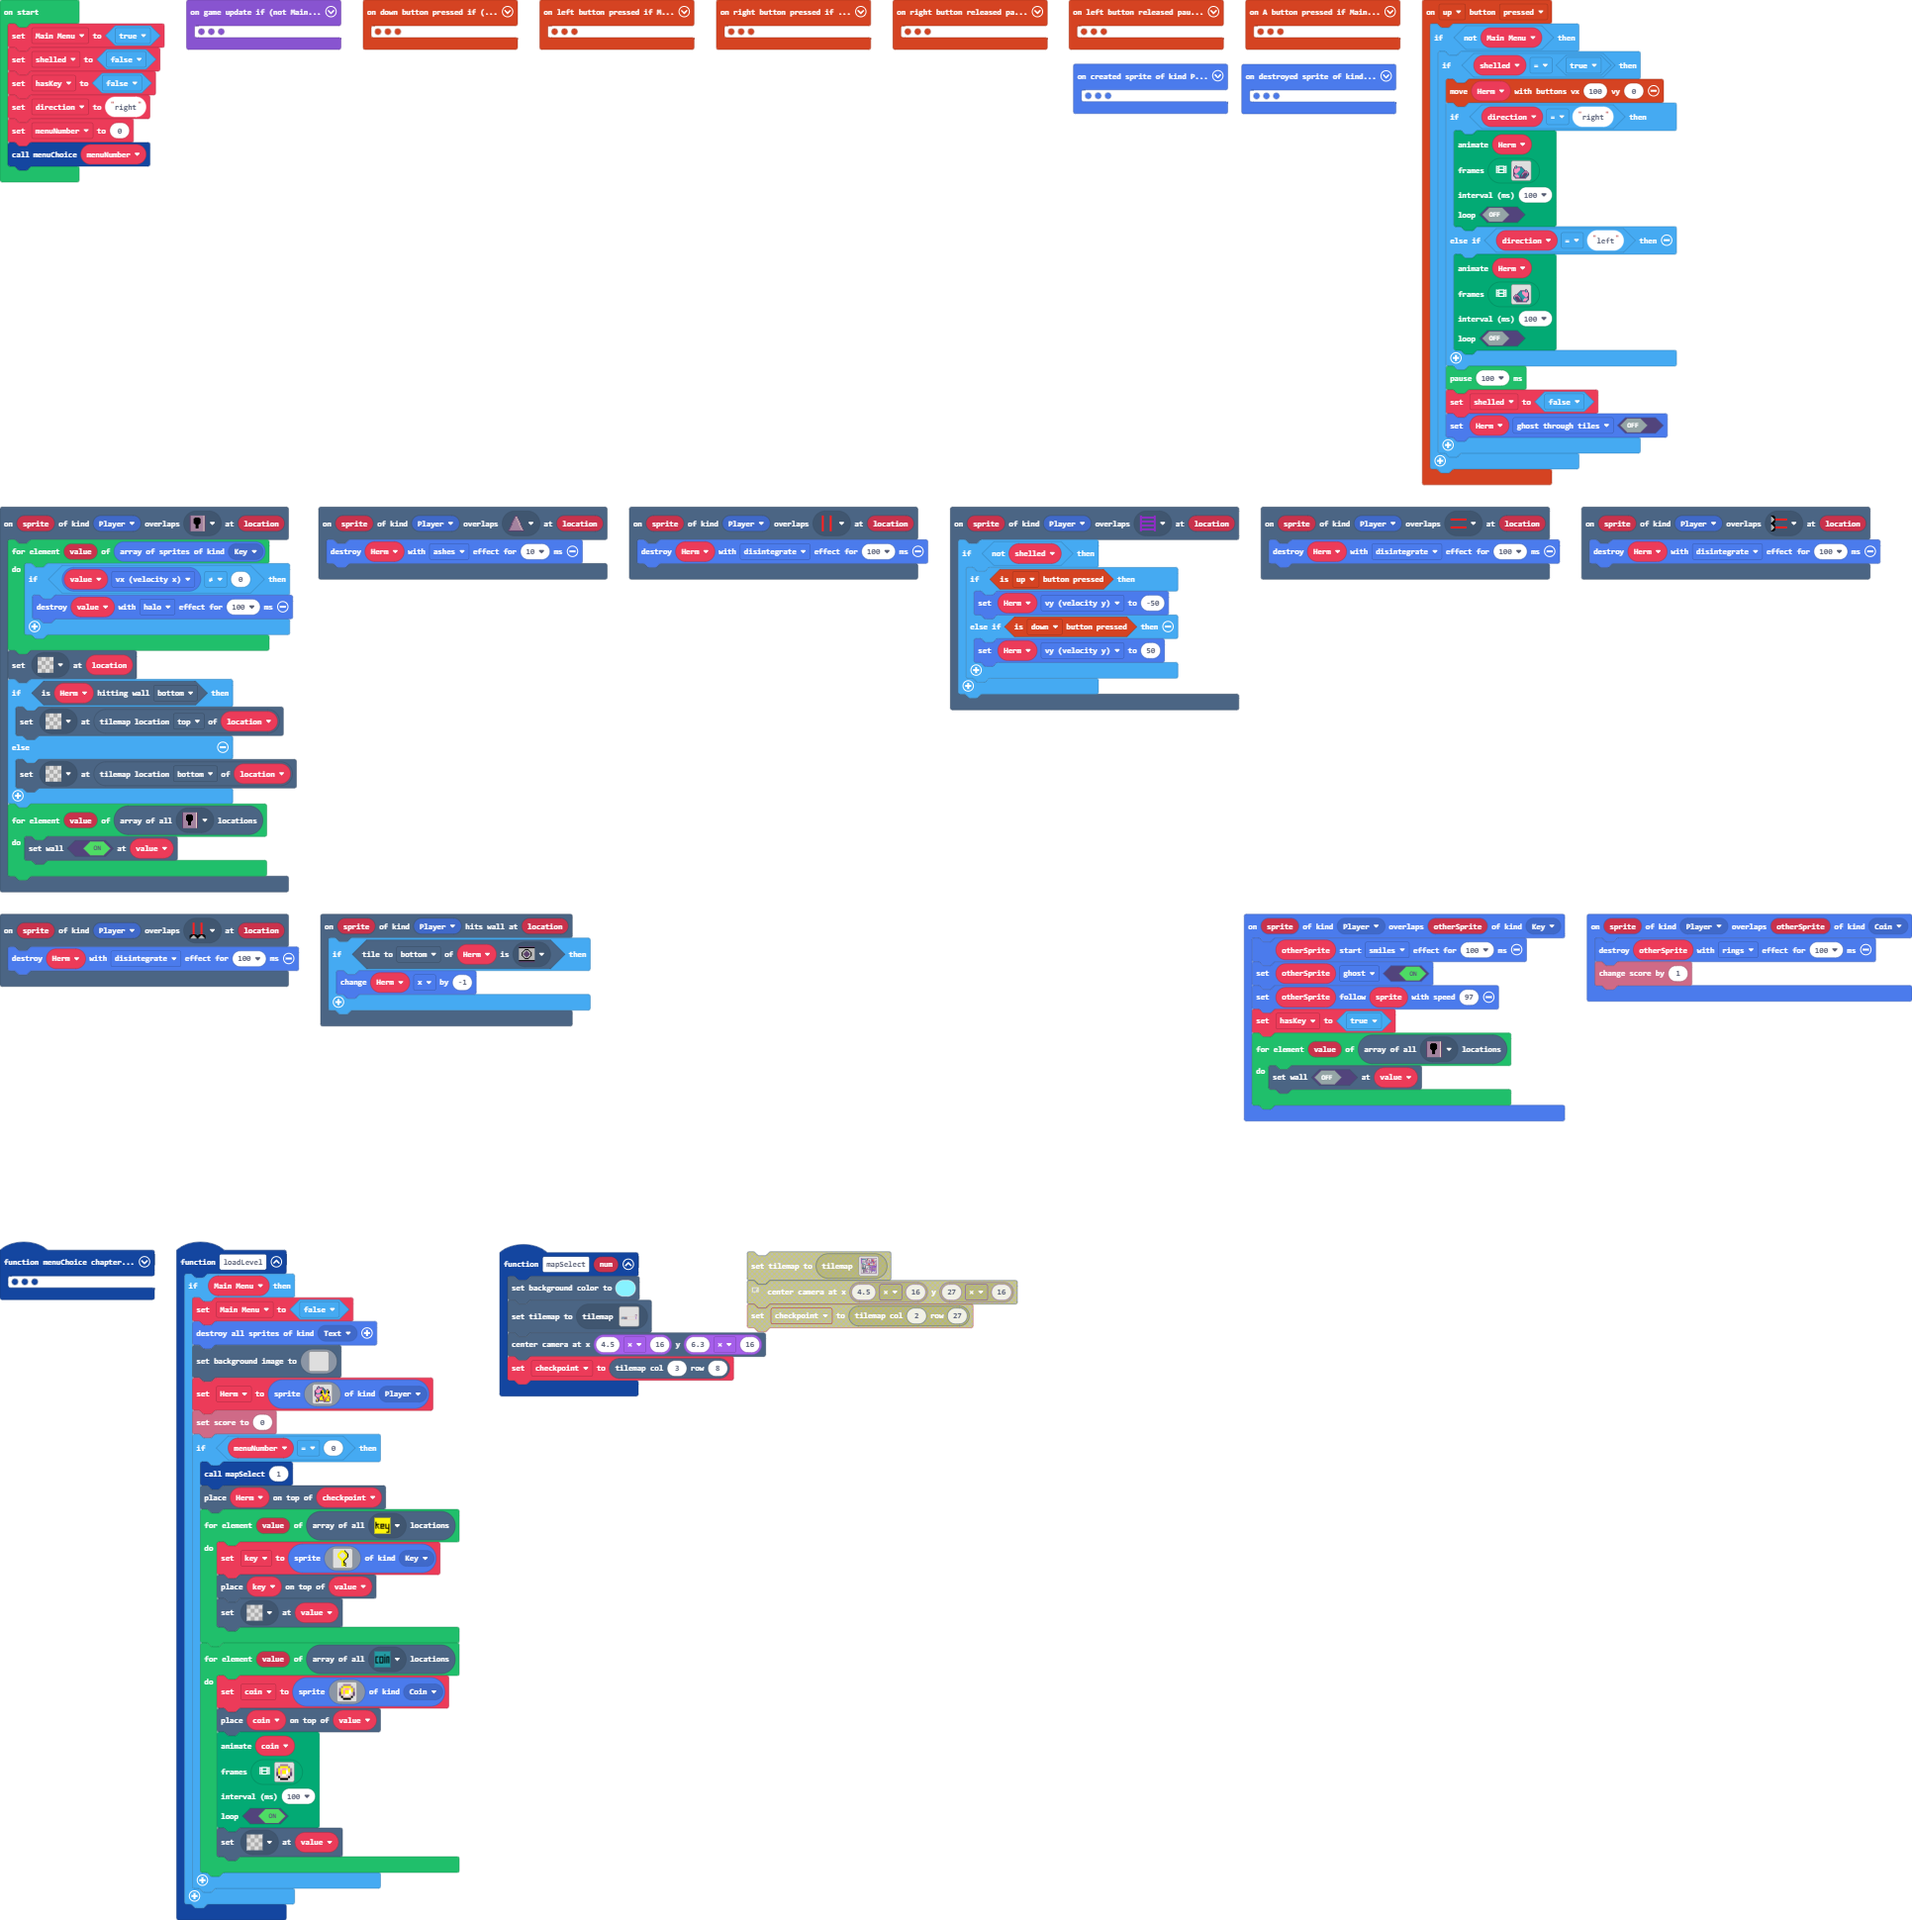
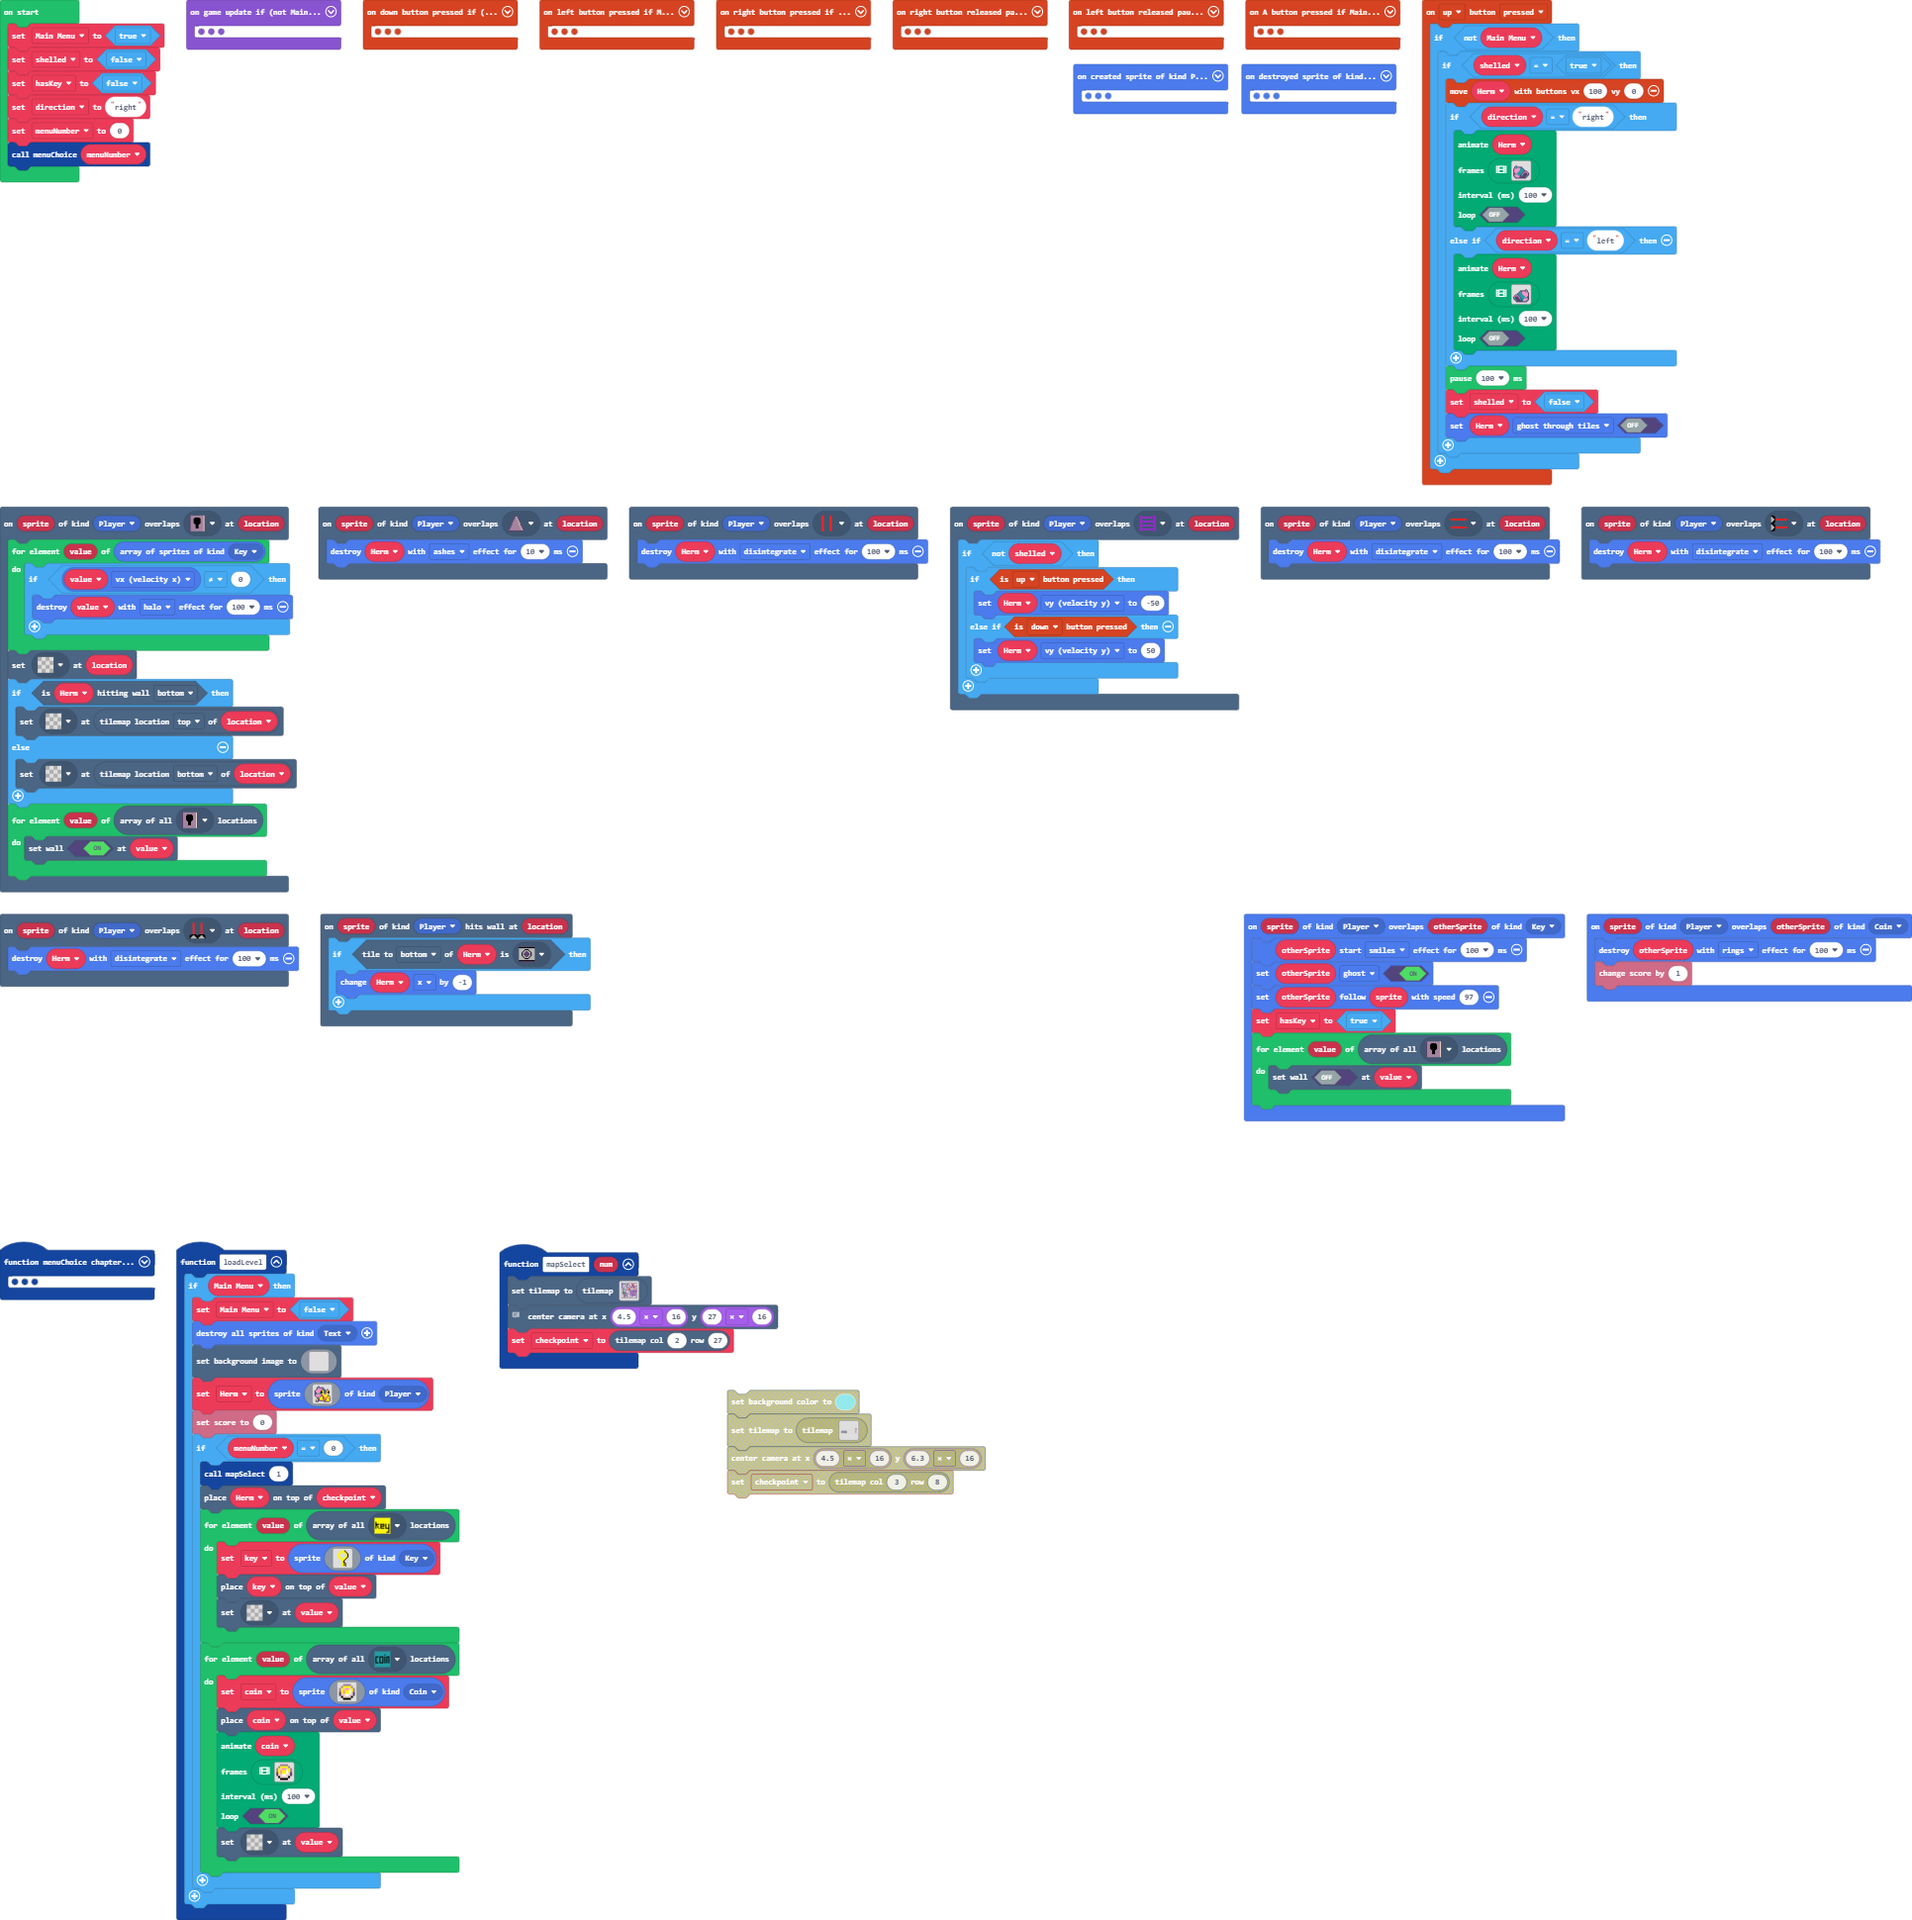
Update main.blocks, main.ts

Changed region(s): [[0.2484, 0.6495, 0.528, 0.8041]]

diff --git a/main.ts b/main.ts
@@ -1134,10 +1134,10 @@ controller.down.onEvent(ControllerButtonEvent.Pressed, function () {
     }
 })
 function mapSelect (num: number) {
-    scene.setBackgroundColor(9)
-    tiles.setCurrentTilemap(tilemap`level6`)
-    scene.centerCameraAt(4.5 * 16, 6.3 * 16)
-    checkpoint = tiles.getTileLocation(3, 8)
+    tiles.setCurrentTilemap(tilemap`level2`)
+    // column at half of the room, same row as Herm.
+    scene.centerCameraAt(4.5 * 16, 27 * 16)
+    checkpoint = tiles.getTileLocation(2, 27)
 }
 scene.onOverlapTile(SpriteKind.Player, assets.tile`myTile14`, function (sprite, location) {
     sprites.destroy(Herm, effects.disintegrate, 100)
